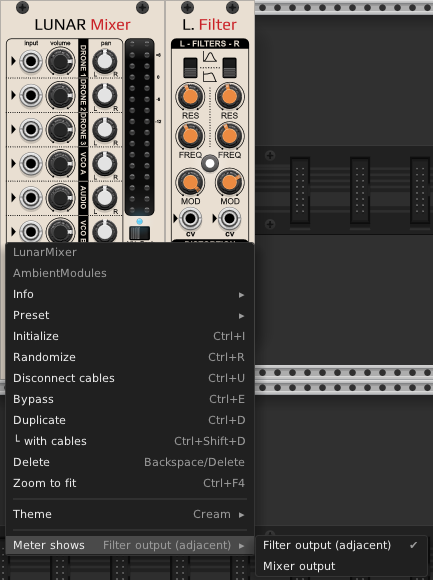
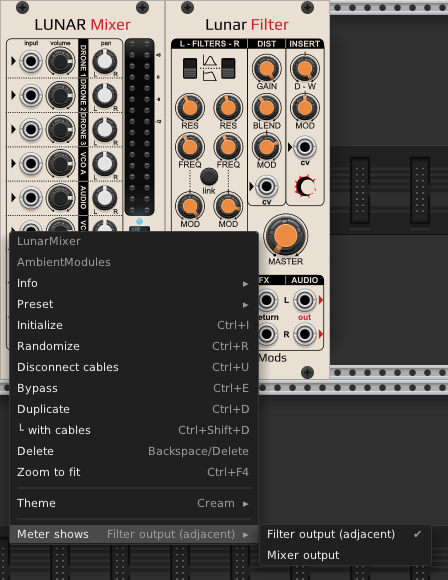
LunarFilter: keep Send R/Return R jacks always visible; docs pass
Drops the jack-hiding behavior on the Send/Return I/O mode switch —
not a standard Rack convention and required extra plumbing
(clearCablesOnPort, per-frame visibility sync) just to make a
non-idiomatic pattern work. Send R now outputs a clean 0V and Return R
is simply ignored in "1 poly jack" mode, both staying visible.

Also reorders each module's Knobs/Inputs/Outputs bullets to match the
panel's actual top-to-bottom reading order, fixes a few stale labels
(LunarMixer's "volume"/"pan", LunarPapaSrapa's "LFO"/"fm"/"am", Zones
Mono buttons) to match the real silkscreen text, refreshes the
LunarMixer meter-mode screenshot, drops the incorrect "chain two
LunarSequencers via Clock Out/In" patch idea (Clock Out is just a
same-rate passthrough, not an EOC — doesn't actually combine into a
longer pattern), and updates the LunarFilter Send/Return R wording to
match the always-visible behavior above.

diff --git a/src/LunarFilter.cpp b/src/LunarFilter.cpp
@@ -204,6 +204,11 @@ struct LunarFilter : Module {
             outputs[SEND_L_OUTPUT].setChannels(2);
             outputs[SEND_L_OUTPUT].setVoltage(preInsertL, 0);
             outputs[SEND_L_OUTPUT].setVoltage(preInsertR, 1);
+            // SEND_R_OUTPUT stays visible on the panel in this mode (see the
+            // Send/Return I/O menu below) but is unused — keep it a clean 0V
+            // rather than the stale value it last held in mono-pair mode.
+            outputs[SEND_R_OUTPUT].setChannels(1);
+            outputs[SEND_R_OUTPUT].setVoltage(0.f);
         } else {
             outputs[SEND_L_OUTPUT].setChannels(1);
             outputs[SEND_L_OUTPUT].setVoltage(preInsertL);
@@ -338,24 +343,10 @@ struct LunarFilterWidget : ModuleWidget {
 
         addOutput(createOutputCentered<PJ301MPort>(mm2px(Vec(x7, 101.66575f)), module, LunarFilter::OUT_L_OUTPUT));
         addOutput(createOutputCentered<PJ301MPort>(mm2px(Vec(x7, 113.16522f)), module, LunarFilter::OUT_R_OUTPUT));
-
-        updateInsertPortVisibility();
-    }
-
-    // Hides the R-side Send/Return jacks when the module is set to the
-    // single-poly-jack bus mode (module == nullptr in the module-browser
-    // preview context, same guard other AmbientModules widgets use — falls
-    // back to the mono-pair layout there).
-    void updateInsertPortVisibility() {
-        LunarFilter* m = dynamic_cast<LunarFilter*>(this->module);
-        bool monoPair = (m == nullptr) || (m->ioMode == LunarFilter::IO_MONO_PAIR);
-        getOutput(LunarFilter::SEND_R_OUTPUT)->visible = monoPair;
-        getInput(LunarFilter::RETURN_R_INPUT)->visible = monoPair;
     }
 
     void step() override {
         syncPanelTheme(this, "LunarFilter", appliedTheme);
-        updateInsertPortVisibility();
         ModuleWidget::step();
     }
 
@@ -373,13 +364,6 @@ struct LunarFilterWidget : ModuleWidget {
                 pushIntFieldChange(module, "change send/return I/O mode", module->ioMode, index,
                     [](engine::Module* m, int v) { dynamic_cast<LunarFilter*>(m)->ioMode = v; });
                 module->ioMode = index;
-                updateInsertPortVisibility();
-                // Only the R-side jacks ever become invisible/unreachable
-                // (the L-side jacks stay visible in both modes, only their
-                // channel count changes) — so they're the only ones that can
-                // end up with a "zombie" cable driving/reading a hidden port.
-                APP->scene->rack->clearCablesOnPort(getOutput(LunarFilter::SEND_R_OUTPUT));
-                APP->scene->rack->clearCablesOnPort(getInput(LunarFilter::RETURN_R_INPUT));
             }
         ));
     }

diff --git a/README.md b/README.md
@@ -1,6 +1,6 @@
 # AmbientModules — User Manual
 
-**AmbientModules** is a small collection of VCV Rack / Cardinal modules inspired by the [Elta Music](https://www.eltamusic.com) [ **SOLAR 42F** "Ambient Drone Machine"](https://www.eltamusic.com/solar-42f)  — an analogue microtonal drone synthesizer. Rather than reproducing the SOLAR 42F's fixed hardware layout, each of its sound engines is broken out here into an independent, freely-patchable Rack module:
+**AmbientModules** is a collection of VCV Rack / Cardinal modules inspired by the [Elta Music](https://www.eltamusic.com) [ **SOLAR 42F** "Ambient Drone Machine"](https://www.eltamusic.com/solar-42f)  — an analog microtonal drone synthesizer. Rather than reproducing the SOLAR 42F's fixed hardware layout, each of its sound engines is broken out here into an independent, freely-patchable Rack module:
 
 ![All AmbientModules panels, Cream theme](docs/images/AllModules_Cream.png)
 
@@ -10,7 +10,7 @@
 | [Lunar50Drone](#lunar50drone)     | 5-oscillator sawtooth drone with a shared envelope | Drone voices 1, 2, 4, 5 "Classic Solar 50" |
 | [LunarVCO](#lunarvco)             | AS3340-style VCO with ADSR and hard sync           | Voices "VCO A / VCO B"                     |
 | [LunarPapaSrapa](#lunarpapasrapa) | FM/AM cross-modulated noise/drone voice            | Drone voices 3, 6 "Papa Srapa"             |
-| [LunarLFO](#lunarlfo)             | Dual unipolar triangle/square LFO                  | LFOs                                       |
+| [LunarLFO](#lunarlfo)             | Dual triangle/square LFO                  | LFOs (Unipolar)                                       |
 | [LunarSequencer](#lunarsequencer) | 3-to-5-stage Buchla-inspired CV/gate sequencer     | Sequencer                                  |
 | [LunarMixer](#lunarmixer)         | 9-channel panoramic mixer with master level        | Mixer page                                 |
 | [LunarFilter](#lunarfilter)       | Dual 12dB Polivoks-style multimode filter + distortion | Filter block                          |
@@ -105,8 +105,8 @@ An empty panel with no parameters, inputs, or outputs — a spacer/template modu
 Five simple sawtooth oscillators sharing one output and one envelope — the Classic Solar 50 drone voice. Each of the 5 oscillators can be switched on or off independently to build chords and triads, and the **Volt** knob detunes and then cross-modulates them together for FM-style drone textures, exactly as on the original hardware.
 
 **Knobs & switches**
-- **Oscillator 1–5 frequency** — one knob per oscillator, octave-linear tuning centered on C4.
 - **Oscillator 1–5 active** (lit button) — mutes/unmutes that oscillator. Can also be toggled from the corresponding trigger input. Not polyphonic: it's a single on/off state per oscillator, shared identically by every poly channel — there's no per-channel "active" state. Oscillator 1 defaults to active, the other four to inactive, so a freshly-added module produces sound immediately instead of silence.
+- **Oscillator 1–5 frequency** — one knob per oscillator, octave-linear tuning centered on C4.
 - **Oscillator 1–5 modulation** (lit button) — enables that oscillator's contribution to the cross-modulation described below. Oscillator 1 defaults to on, the other four to off.
 - **CV Attenuverter** — scales the incoming Frequency CV (±100%, defaults to +100%) before it's applied to all 5 oscillators together, so it shifts their combined pitch while preserving the intervals between them. ⚠ Following the real SOLAR 42F, an oscillator only responds to Frequency CV once its own **Modulation** button is enabled — with the attenuverter at its default +100%, enabling Modulation on an oscillator is normally enough on its own; turn the attenuverter down (or all the way to 0%) if you want to reduce or fully disable Frequency CV's effect on every oscillator at once. This gating-by-Modulation-button is by design, not a bug: it mirrors the original hardware's per-oscillator "modulation enable" switch.
 - **Volt** — transposes all 5 oscillators down together, independently of the Modulation buttons/CV Attenuverter above; past roughly the halfway point of the knob's travel, they also start frequency-modulating each other (see [Context menu](#lunar50drone-context-menu) for how that cross-modulation is wired), for the same FM synthesis effect described in the original SOLAR 42F documentation.
@@ -114,15 +114,15 @@ Five simple sawtooth oscillators sharing one output and one envelope — the Cla
 - **Hold** (lit button) — see [Shared conventions](#shared-conventions).
 
 **Inputs**
-- **Frequency CV** — sums (through the CV Attenuverter) onto all 5 oscillators at once.
 - **Oscillator 1–5 trigger** — toggles the corresponding oscillator's Active state on a rising edge. Monophonic (channel 1 only, even from a polyphonic cable) — matches the Active button it drives, which isn't per-channel either.
+- **Frequency CV** — sums (through the CV Attenuverter) onto all 5 oscillators at once.
 - **Volt CV** — 0–10V, adds to the Volt knob; polyphonic, read independently per channel.
-- **Gate** — opens the shared envelope while high (ignored if Hold is engaged or Envelope CV is patched).
 - **Envelope CV** — see [Shared conventions](#shared-conventions).
+- **Gate** — opens the shared envelope while high (ignored if Hold is engaged or Envelope CV is patched).
 
 **Outputs**
-- **Sawtooth mix** — the combined, enveloped audio output.
 - **Envelope** — 0–10V copy of the envelope currently shaping the mix.
+- **Sawtooth mix** — the combined, enveloped audio output.
 
 **LEDs**
 - **Envelope** (yellow, standalone) — brightness follows the envelope's current level, so it glows brighter as the drone swells and dims as it releases.
@@ -146,28 +146,28 @@ An AS3340-style voltage-controlled oscillator — the SOLAR 42F's "VCO A / VCO B
 
 **Knobs & switches**
 - **Waveform** — 6 positions: Sine, Triangle, Inverted saw, Square, Saw-to-inverted-saw (morphed by Shape), Sine-to-saw (morphed by Shape).
+- **Sub oscillator** (lit button) — adds a sub-oscillator one octave below.
+- **Shape** — pulse width (square) or morph blend (the two morphing waveforms), plus its CV amount attenuverter.
 - **Tune** — ±0.5 octave fine tune.
 - **Octave** (lit button) — Low or +3 octaves.
-- **Sub oscillator** (lit button) — adds a sub-oscillator one octave below.
 - **FM mode** (lit button) — Linear or Exponential FM response for the FM input.
-- **Shape** — pulse width (square) or morph blend (the two morphing waveforms), plus its CV amount attenuverter.
 - **FM amount** — attenuverter for the FM input.
 - **Attack / Decay / Sustain / Release** — the built-in ADSR envelope.
-- **Hold** (lit button) — see [Shared conventions](#shared-conventions).
 - **Self-generation** (lit button) — turns the envelope generator into a free-running LFO instead of a one-shot envelope, cycling Attack/Release only (Decay is skipped); Attack and Release should be turned low (towards 9 o'clock) for this to cycle usefully, and Sustain sets its peak depth. Still needs Gate to have gone high at least once (or Hold engaged) to start — it doesn't cycle on its own from silence.
+- **Hold** (lit button) — see [Shared conventions](#shared-conventions).
 
 **Inputs**
+- **Sync** — hard-syncs the oscillator's phase to the incoming signal.
+- **Shape CV** — modulates the Shape knob, scaled by its attenuverter.
 - **V/oct** — pitch, standard 1V/octave.
 - **FM** — linear or exponential frequency modulation (mode set by the FM mode switch), scaled by the FM amount knob.
-- **Shape CV** — modulates the Shape knob, scaled by its attenuverter.
-- **Sync** — hard-syncs the oscillator's phase to the incoming signal.
-- **Gate** — opens the ADSR envelope while high (ignored if Hold is engaged or Envelope CV is patched).
 - **Envelope CV** — see [Shared conventions](#shared-conventions).
+- **Gate** — opens the ADSR envelope while high (ignored if Hold is engaged or Envelope CV is patched).
 
 **Outputs**
-- **Audio Out** — the enveloped (VCA'd) oscillator signal.
 - **Envelope Out** — 0–10V copy of the ADSR currently shaping Audio Out.
 - **OSC Out** — raw, unenveloped oscillator phase (±5V ramp); mirrors the hardware's VCO B "OSC" output. Patch it into another LunarVCO's Sync input to hard-sync that oscillator to this one.
+- **Audio Out** — the enveloped (VCA'd) oscillator signal.
 
 **LEDs**
 - **Envelope** (yellow, standalone) — brightness follows the ADSR's current level, glowing brighter through Attack/Sustain and dimming through Decay/Release.
@@ -184,10 +184,10 @@ An AS3340-style voltage-controlled oscillator — the SOLAR 42F's "VCO A / VCO B
 The SOLAR 42F's "Papa Srapa" noise/drone voice: a low-frequency square-wave modulator cross-modulating an audio-rate square oscillator (FM and/or AM), blended with independent white noise, plus a built-in sample & hold and envelope.
 
 **Knobs & switches**
-- **Rate** — the modulator's frequency, from 1Hz up to ~C4.
-- **FM** (lit button) — routes the modulator into the audio oscillator's frequency.
-- **AM** (lit button) — routes the modulator into the audio oscillator's amplitude. FM and AM can be enabled together.
+- **LFO** — the modulator's frequency, from 1Hz up to ~C4.
+- **fm** (lit button) — routes the modulator into the audio oscillator's frequency.
 - **Modulation depth** — how strongly the modulator affects the audio oscillator, plus its CV input.
+- **am** (lit button) — routes the modulator into the audio oscillator's amplitude. FM and AM can be enabled together.
 - **Divider** — divides down the modulator's frequency relative to the audio oscillator, plus its CV input.
 - **Pitch** — the audio oscillator's pitch, spanning C0 to E7.
 - **Noise** — mix level of the internal white noise source, shared across every polyphonic voice (not decorrelated per voice — the real hardware only has one noise generator per module).
@@ -196,22 +196,22 @@ The SOLAR 42F's "Papa Srapa" noise/drone voice: a low-frequency square-wave modu
 - **Hold** (lit button) — see [Shared conventions](#shared-conventions).
 
 **Inputs**
-- **Pitch CV** — 1V/oct, sums onto the Pitch knob.
 - **Modulation depth CV**, **Divider CV** — sum onto their respective knobs; polyphonic, read independently per channel, each driving its own per-channel modulator (see LFO output below) — so different channels can have their own FM/AM depth and modulator rate.
-- **Sample & hold clock** — samples a new value on each rising edge; polyphonic, with its own channel count driven by Sample & hold clock/input (independent from the rest of the panel — see Outputs below).
+- **Pitch CV** — 1V/oct, sums onto the Pitch knob.
 - **Sample & hold input** — the source to sample; normalled to the internal noise generator when nothing is patched here; polyphonic, same channel count as Sample & hold clock.
-- **Gate** — opens the envelope while high (ignored if Hold is engaged or Envelope CV is patched).
+- **Sample & hold clock** — samples a new value on each rising edge; polyphonic, with its own channel count driven by Sample & hold clock/input (independent from the rest of the panel — see Outputs below).
 - **Envelope CV** — see [Shared conventions](#shared-conventions).
+- **Gate** — opens the envelope while high (ignored if Hold is engaged or Envelope CV is patched).
 
 **Outputs**
-- **VCO (enveloped)** — the main cross-modulated/noise audio output, shaped by the envelope.
 - **LFO** — the raw low-frequency modulator signal, always running while patched; polyphonic — each channel gets its own independent modulator (see Modulation depth CV / Divider CV above), unlike the real hardware's single LFO per module.
 - **Sample & hold** — the current sampled value; polyphonic, with its own channel count driven by the Sample & hold Signal/Clock inputs — independent from Pitch CV/Gate/Envelope CV, since S&H is a self-contained section of the panel.
 - **Envelope** — 0–10V copy of the envelope currently shaping VCO Out.
+- **VCO (enveloped)** — the main cross-modulated/noise audio output, shaped by the envelope.
 
 **LEDs**
-- **Envelope** (yellow, standalone) — brightness follows the envelope's current level.
 - **Sample & Hold** (blue, standalone) — flashes with each new sample on channel 1, brightness proportional to that channel's sampled value's magnitude (a single LED can't show all channels at once).
+- **Envelope** (yellow, standalone) — brightness follows the envelope's current level.
 
 **Patch ideas**
 - Turn on both FM and AM with a fast Rate and high Modulation depth for the "sirens and space monsters" sounds the original Papa Srapa circuit is known for.
@@ -251,8 +251,8 @@ A classic, Buchla-inspired 3-to-5-stage sequential voltage source: each step sto
 **Knobs & switches**
 - **Pulser rate** — speed of the internal clock, used whenever nothing is patched into Clock In. The internal pulser is a clean ~50%-duty square wave (not a ramp/sawtooth) — same shape whether it's driving Clock Out or advancing the steps internally.
 - **Stages** — sets the sequence length to 3, 4, or 5 steps. ⚠ Following the original SOLAR 42F hardware switch (a vertical lever read top to bottom as 4, 5, 3), this module's own horizontal switch reads left to right as **3, 5, 4** rather than the more intuitive 3, 4, 5. Click directly on the side you want (rather than the current lever position) to jump straight there, like a real toggle switch.
-- **Step 1–5 CV** — each step's output level; the knob's tooltip shows the actual voltage for the currently selected CV Range.
 - **Step 1–5 gate** (lit button) — enables/disables that step's Gate output. This does **not** affect the CV output — a "gate off" step is skipped for triggering, but its CV value still plays when the sequence reaches it.
+- **Step 1–5 CV** — each step's output level; the knob's tooltip shows the actual voltage for the currently selected CV Range.
 
 **Inputs**
 - **Clock In** — external clock/trigger; when connected, it replaces the internal Pulser.
@@ -274,7 +274,6 @@ A classic, Buchla-inspired 3-to-5-stage sequential voltage source: each step sto
 
 **Patch ideas**
 - Feed Step CV into [LunarVCO](#lunarvco) or [Lunar50Drone](#lunar50drone)'s pitch/frequency input, and Step gate into their Gate input, for a self-contained melodic sequence.
-- Chain two LunarSequencers by patching one's Clock Out into the other's Clock In to build longer combined patterns.
 
 ## LunarMixer
 
@@ -283,10 +282,12 @@ A classic, Buchla-inspired 3-to-5-stage sequential voltage source: each step sto
 The SOLAR 42F's 9-channel panoramic mixer page: one row per channel (In / Level / Pan), summed to a shared stereo output with a master level knob. Straight sum, no automatic gain compensation or soft-clipping — same as the hardware mixer page and the standard Eurorack mixer convention, so gain-stage with the Level knobs directly.
 
 **Knobs**
-- **Drone 1–3, VCO A, Ext. Audio/Preamp, VCO B, Drone 4–6 level** — one knob per channel, 0–100%.
-- **Drone 1–3, VCO A, Ext. Audio/Preamp, VCO B, Drone 4–6 pan** — constant-power pan per channel, hard left to hard right.
+- **volume** — one knob per channel, 0–100%.
+- **pan** — constant-power pan per channel, hard left to hard right.
+- **VU/Peak** — selects the Meter LEDs' ballistics (see LEDs below): 
+  - **VU** (symmetric ~300ms attack/release, ANSI C16.5-style averaging) 
+  - or **Peak** (near-instant attack, ~300ms release, catches transients the VU setting smooths over).
 - **Master level** — overall output level after the pan/sum stage.
-- **VU/Peak** — selects the Meter LEDs' ballistics (see LEDs below): **VU** (symmetric ~300ms attack/release, ANSI C16.5-style averaging) or **Peak** (near-instant attack, ~300ms release, catches transients the VU setting smooths over).
 
 **Inputs**
 - **Drone 1–3, VCO A, Ext. Audio/Preamp, VCO B, Drone 4–6** — one audio input per channel. A polyphonic cable is summed to mono before that channel's own Level/Pan (same convention as Bogaudio's Mix4 and Venom/MindMeld MixMaster's "poly sum" mode) — each channel has a single pair of knobs, not one per polyphonic voice. "Ext. Audio/Preamp" is a general-purpose channel for anything else you want to mix in; on the real hardware it's mutually exclusive with the internal piezo preamp, a distinction that doesn't apply here.
@@ -317,33 +318,36 @@ Reimplements the SOLAR 42F's "FILTER" block: two independent 12dB Polivoks-style
 The real hardware only exposes one CV input (Filter L's frequency only); this module adds a second, fully independent CV/amount pair for Filter R. With Link off, CV L/MOD L drives Filter L's frequency and CV R/MOD R drives Filter R's, completely independently. With Link on, both sum onto Filter L's frequency instead (Filter R's own Frequency knob and its CV R contribution are bypassed, following Filter L's effective frequency as usual). Resonance and the Low-pass/Band-pass switch always stay independent per filter, whether Link is on or not — confirmed against Elta Music's own demo videos of the hardware.
 
 **Knobs**
-- **Frequency L/R** — filter cutoff, 20Hz to 20kHz. Filter R's Frequency knob is bypassed while Link is on.
-- **Resonance L/R** — always independent, even with Link on. High resonance can self-oscillate; the filter's feedback path is soft-clipped so it settles at a stable, bounded amplitude rather than blowing up.
-- **Type L/R** — Low-pass or Band-pass, always independent, even with Link on.
-- **CV L/R amount** — bipolar attenuverter for CV L/CV R's effect on frequency, independent per side (negative inverts the CV) — see Inputs below for how they combine under Link.
-- **Distortion blend** — crossfades between the clean filtered signal and the distorted one.
-- **Distortion blend CV amount** — bipolar attenuverter for the Distortion CV input (see Inputs below), same convention as [Lunar50Drone](#lunar50drone)'s CV Attenuverter.
-- **Distortion amount** — drive into the distortion stage's soft clipper.
-- **Link** — Filter R's effective frequency follows Filter L's (see above) instead of its own Frequency knob.
-- **Insert blend** — single knob, shared by both channels: crossfades between the dry (pre-Send) signal and whatever comes back on Return. At 0 (default), Return is ignored entirely — the insert loop is inaudible until you turn this up, so an empty patch or one with nothing in the loop sounds identical to before this feature existed.
-- **Insert blend CV amount** — bipolar attenuverter for the Insert blend CV input (see Inputs below), same convention as [Lunar50Drone](#lunar50drone)'s CV Attenuverter.
+- **Filters L/R**
+  - **Type L/R** — Low-pass or Band-pass, always independent, even with Link on.    
+  - **Resonance L/R** — always independent, even with Link on. High resonance can self-oscillate; the filter's feedback path is soft-clipped so it settles at a stable, bounded amplitude rather than blowing up.
+  - **Frequency L/R** — filter cutoff, 20Hz to 20kHz. Filter R's Frequency knob is bypassed while Link is on.
+  - **Link** — Filter R's effective frequency follows Filter L's (see above) instead of its own Frequency knob.
+  - **CV L/R amount** — bipolar attenuverter for CV L/CV R's effect on frequency, independent per side (negative inverts the CV) — see Inputs below for how they combine under Link.
+- **Distortion**
+  - **Gain** — drive into the distortion stage's soft clipper.
+  - **Blend** — crossfades between the clean filtered signal and the distorted one.
+  - **Blend CV amount** — bipolar attenuverter for the Distortion CV input (see Inputs below), same convention as [Lunar50Drone](#lunar50drone)'s CV Attenuverter.
+- **Insert FX**
+  - **Insert blend** — single knob, shared by both channels: crossfades between the dry (pre-Send) signal and whatever comes back on Return. At 0 (default), Return is ignored entirely — the insert loop is inaudible until you turn this up, so an empty patch or one with nothing in the loop sounds identical to before this feature existed.
+  - **Insert blend CV amount** — bipolar attenuverter for the Insert blend CV input (see Inputs below), same convention as [Lunar50Drone](#lunar50drone)'s CV Attenuverter.
 - **Master level** — final stereo volume, after the insert loop, same simple 0–100% convention as [LunarMixer](#lunarmixer)'s Master level.
 
 **Inputs**
-- **In L/R** — stereo audio input.
 - **CV L** — modulates Filter L's frequency (always), scaled by CV L amount.
 - **CV R** — modulates Filter R's frequency while Link is off, scaled by CV R amount; while Link is on, sums onto Filter L's frequency instead (which Filter R then follows, same as always under Link) — still scaled by its own CV R amount knob either way.
 - **Distortion CV** — modulates the Distortion blend knob, scaled by Distortion blend CV amount, summed onto the knob and clamped to its 0–100% range.
-- **Return L/R** — the insert loop's return from your external effects chain. Normalled to the dry signal when nothing's patched, so the loop stays transparent until you actually return something. In the *1 poly jack* Send/Return I/O mode (see [Context menu](#lunarfilter-context-menu) below), only Return L is used, carrying a 2-channel poly cable (channel 0 = L, channel 1 = R) — Return R is hidden in that mode.
 - **Insert blend CV** — modulates the Insert blend knob, scaled by Insert blend CV amount, summed onto the knob and clamped to its 0–100% range.
+- **In L/R** — stereo audio input.
+- **Return L/R** — the insert loop's return from your external effects chain. Normalled to the dry signal when nothing's patched, so the loop stays transparent until you actually return something. In the *1 poly jack* Send/Return I/O mode (see [Context menu](#lunarfilter-context-menu) below), only Return L is used, carrying a 2-channel poly cable (channel 0 = L, channel 1 = R) — Return R stays visible but is ignored in that mode.
 
 **Outputs**
+- **Send L/R** — the insert loop's send to your external effects chain (post-filter, post-distortion, pre-Blend). In the *1 poly jack* Send/Return I/O mode, only Send L is used, carrying a 2-channel poly cable (channel 0 = L, channel 1 = R) — Send R stays visible but outputs a fixed 0V (unused) in that mode.
 - **Out L/R** — stereo output, after both filters, the shared distortion stage, and the insert loop/Master level.
-- **Send L/R** — the insert loop's send to your external effects chain (post-filter, post-distortion, pre-Blend). In the *1 poly jack* Send/Return I/O mode, only Send L is used, carrying a 2-channel poly cable (channel 0 = L, channel 1 = R) — Send R is hidden in that mode.
 
 <a id="lunarfilter-context-menu"></a>
 **Context menu**
-- **Send/Return I/O** — *2 mono jacks (L/R)* (default): Send L/R and Return L/R are four separate jacks. *1 poly jack (2ch bus on Left)*: Send R and Return R are hidden, and Send L/Return L instead carry a 2-channel poly cable each (L=channel 0, R=channel 1) — lets a genuinely polyphonic external module (e.g. Fundamental's own VCF, which has a single poly cable in/out and no L/R jacks at all) sit directly in the insert loop without extra merge/split utility modules. Switching modes clears any cable patched into the jack(s) being hidden.
+- **Send/Return I/O** — *2 mono jacks (L/R)* (default): Send L/R and Return L/R are four separate jacks. *1 poly jack (2ch bus on Left)*: Send R and Return R stay visible but go unused, and Send L/Return L instead carry a 2-channel poly cable each (L=channel 0, R=channel 1) — lets a genuinely polyphonic external module (e.g. Fundamental's own VCF, which has a single poly cable in/out and no L/R jacks at all) sit directly in the insert loop without extra merge/split utility modules.
 
 **Patch ideas**
 - Feed [LunarMixer](#lunarmixer)'s Left/Right outputs directly into In L/R for the hardware's full Mixer → Filter chain.
@@ -363,8 +367,8 @@ Electrical equivalent of the SOLAR 42F Joystick block, without the physical stic
 - If the cursor leaves the square on either axis mid-drag, the crosshair freezes exactly where it crossed the edge rather than sliding along it — further mouse movement outside the zone is ignored until the cursor comes back inside on both axes.
 
 **Knobs**
-- **X/Y offset** — adds to that axis's position (manual or CV) after the range rescale below, so it's independent of whichever range is selected.
 - **Range X/Y** (4-position rotary) — the voltage range an external CV source is rescaled from, into the pad's internal ±5V range: *-5V to +5V*, *0V to +10V* (default — e.g. a MIDI CC→CV converter, always unipolar 0–10V), *0V to +5V*, or *-10V to +10V*. CV outside the selected range is clamped to ±5V internally, same as a manual drag can never exceed.
+- **X/Y offset** — adds to that axis's position (manual or CV) after the range rescale below, so it's independent of whichever range is selected.
 
 **Inputs**
 - **X / Y** — CV overriding the pad's manual position on that axis when patched (see above).
